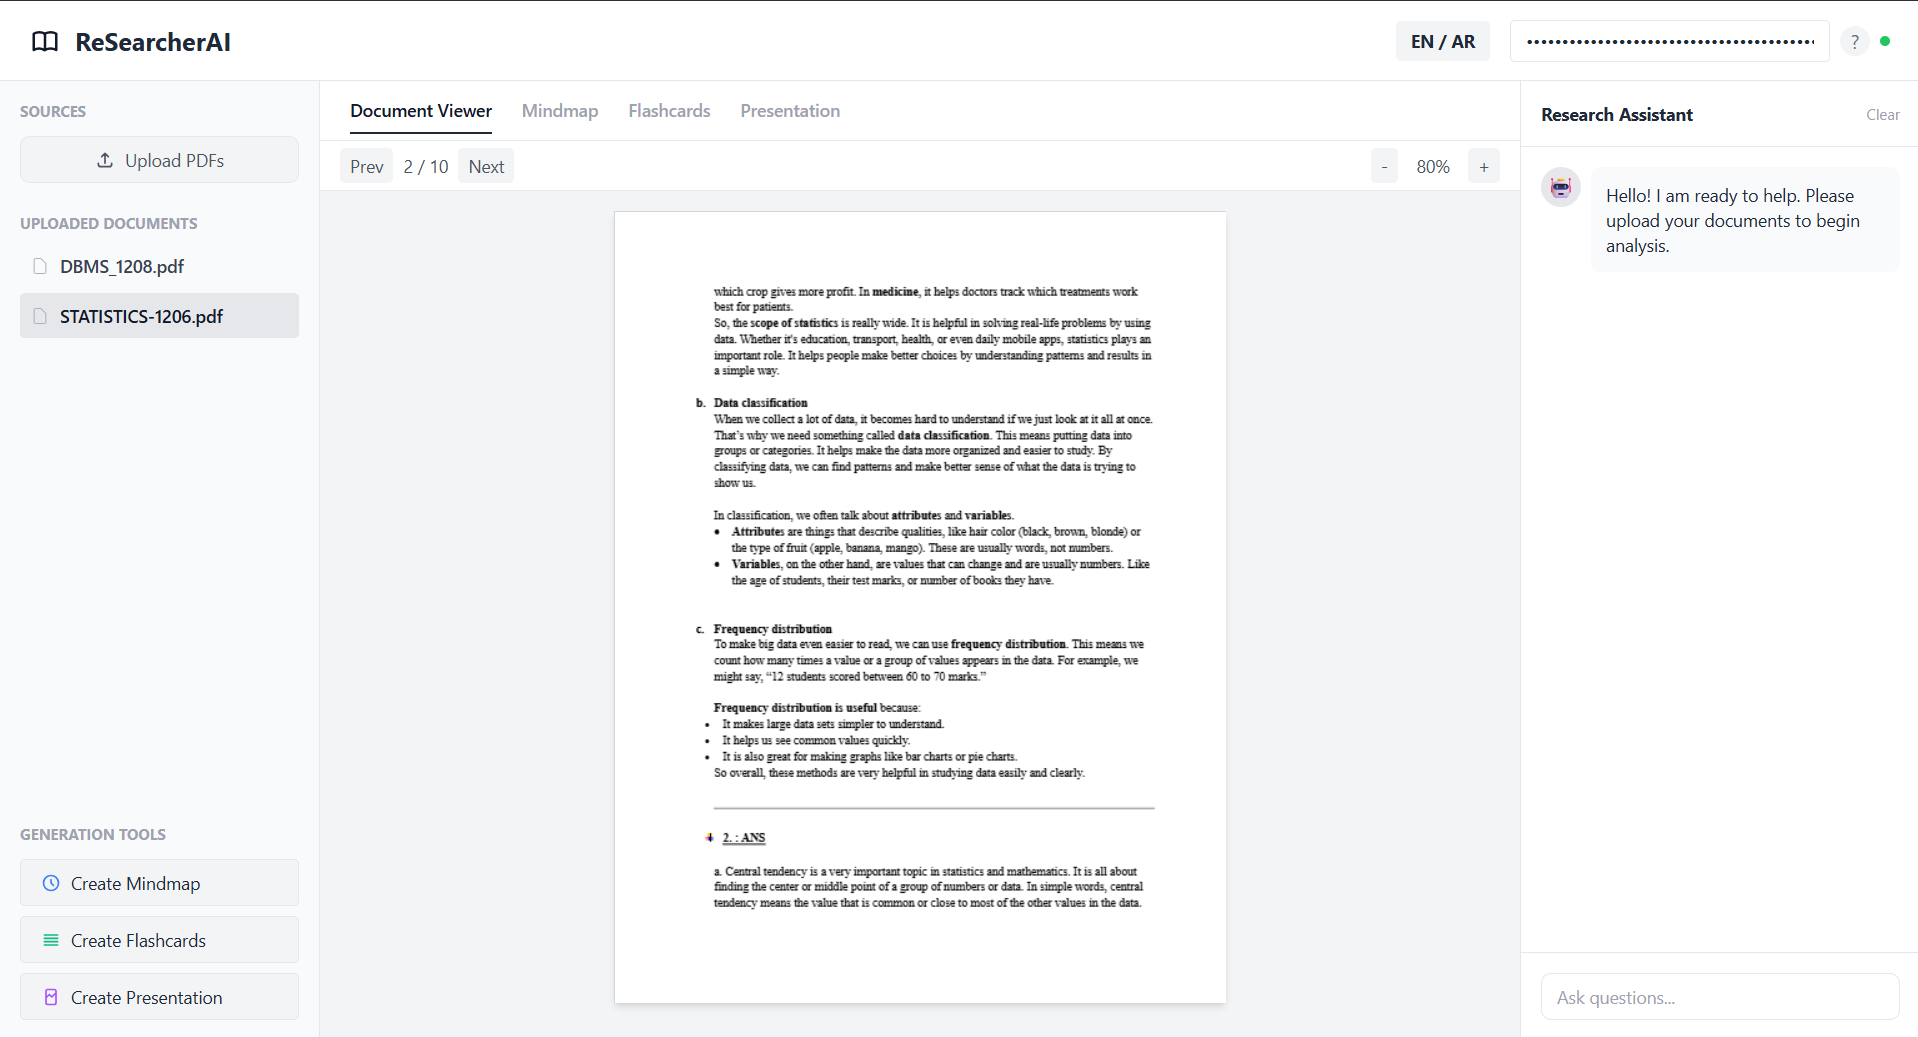
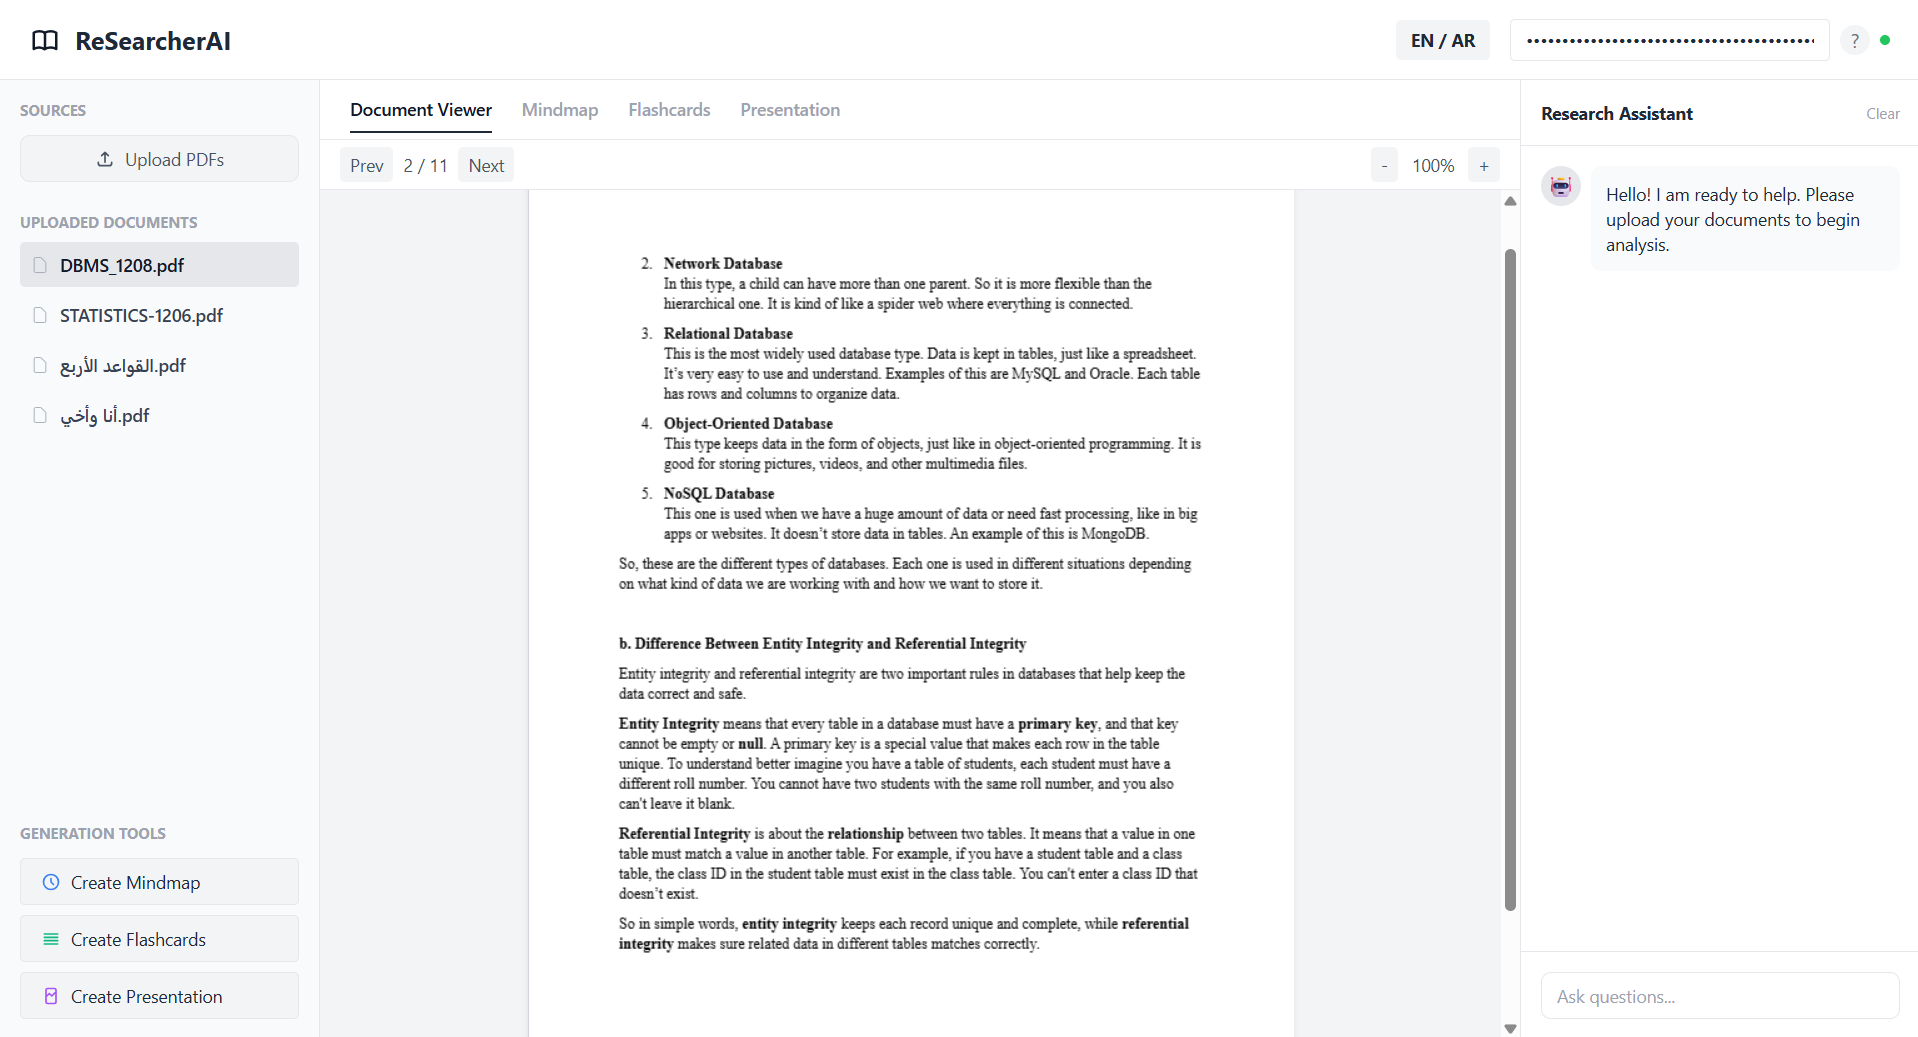
Update

diff --git a/Readme.md b/Readme.md
@@ -58,21 +58,6 @@ PDFs are processed locally in your browser and only the extracted content is sen
 |------------------------|
 |<img src="assets/saved-generations.png" alt="Saved Generations" width="600"/> |
 
----
-
-## 🖼 Additional Screenshots
-
-### 📄 Document Viewer & Multi-Upload
-<img src="assets/document-viewer.png" alt="Document Viewer" width="800"/>
-
-### 🤖 AI Generation (Presentations / Flashcards)
-<img src="assets/ai-generation.png" alt="AI Generation" width="800"/>
-
-### 🌍 Arabic Localization (RTL Support)
-<img src="assets/arabic1.png" alt="Arabic Support" width="800"/>
-
-### 💾 Saved Generations
-<img src="assets/saved-generations.png" alt="Saved Generations" width="800"/>
 
 ---
 
